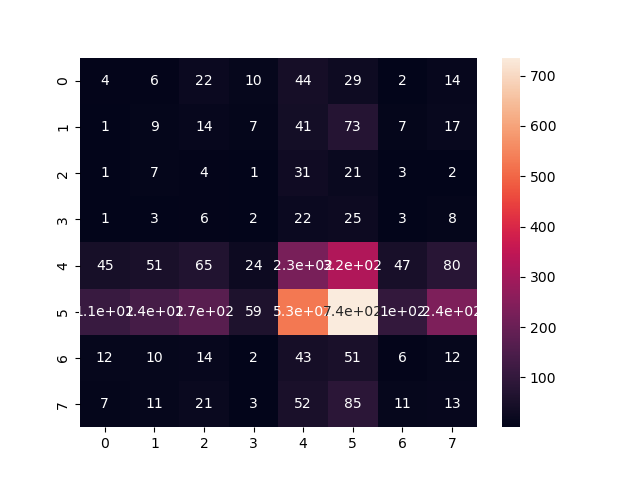
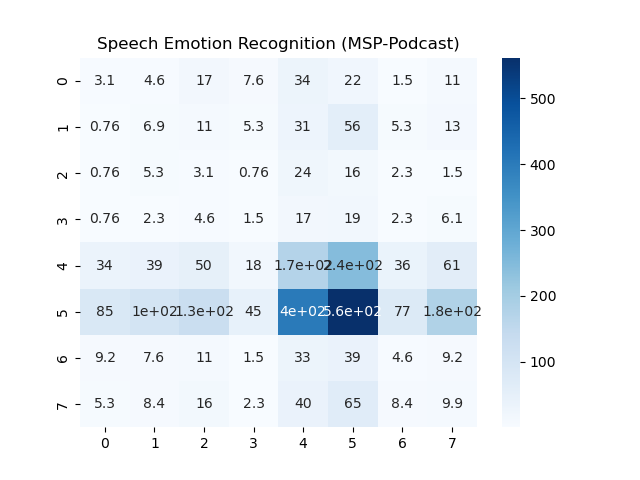
added new emotion analysis for thesis

diff --git a/analysis/va_emotion_analysis.py b/analysis/va_emotion_analysis.py
@@ -1,0 +1,111 @@
+# Implementation of D-prime from the following post
+# https://stats.stackexchange.com/questions/492673/understanding-and-implementing-the-dprime-measure-in-python
+# Goal: Compute d-prime between arousal/valence distributions for genuine and impostor pairs
+
+# USAGE python va_emotion_analysis.py [test1/test2/val] > d_prime_res.txt 
+
+
+import numpy as np
+from sklearn.metrics import roc_auc_score
+from scipy import stats
+from scipy.stats import norm
+import math
+import sys
+import random
+import pandas as pd
+import matplotlib.pyplot as plt
+Z = norm.ppf
+
+
+p = 0.01  # 1% or .01 of the lines works for val and test2.     0.5% or .005 works for test1
+if sys.argv[1] == 'test1':
+    p=.005
+else:
+    p=0.01
+# keep the header, then take only 1% of lines
+# if random from [0,1] interval is greater than 0.01 the row will be skipped
+test_results = pd.read_csv('../ExperimentData/'+sys.argv[1]+'_results.csv',
+                            header=0, 
+                            skiprows=lambda i: i>0 and random.random() > p) # evector
+
+test2_results = pd.read_csv('../baseline_experiment/ExperimentData/pretrained_ecapa_vox/'+sys.argv[1]+'_results.csv',
+                            header=0, 
+                            skiprows=lambda i: i>0 and random.random() > p) # ecapa vox
+
+test3_results = pd.read_csv('../baseline_experiment/finetuned_ecapavox/ExperimentData/125epoch/'+sys.argv[1]+'_results.csv',
+                            header=0, 
+                            skiprows=lambda i: i>0 and random.random() > p) # ecapa vox+msp
+
+test4_results = pd.read_csv('../baseline_experiment/ExperimentData/pretrained_ecapa_msp/'+sys.argv[1]+'_results.csv',
+                            header=0, 
+                            skiprows=lambda i: i>0 and random.random() > p) # ecapa msp
+
+
+emotions = ['A', 'S', 'H', 'U', 'F', 'D', 'C', 'N', 'O', 'X']
+
+emo_map = {'A':'Angry', 'S':'Sad', 'H':'Happy', 'U':'Surprise', 'F':'Fear', 'D':'Disgust', 'C':'Contempt', 'N':'Neutral', 'O':'Other', 'X':'No Agreement'}
+
+scaling = 60
+gen_descale = 0.5
+
+models = ['evec', 'ecapavox', 'ecapavoxmsp', 'ecapamsp']
+
+for model in models:
+    if model == 'ecapavox':
+        test_results = test2_results
+    elif model =='ecapavoxmsp':
+        test_results = test3_results
+    elif model == 'ecapamsp':
+        test_results = test4_results
+            
+    # gen intra
+    for emo in emotions:
+        gen_mean_intra = test_results[test_results['SpkrIDA'] == test_results['SpkrIDB']][test_results['EmoClassA'] == emo][test_results['EmoClassB'] == emo]['MatchScore'].mean() # mean match score
+        gen_mean_intra_val =  (test_results[test_results['SpkrIDA'] == test_results['SpkrIDB']][test_results['EmoClassA'] == emo][test_results['EmoClassB'] == emo]['EmoValA'].mean() + # mean valence
+                                test_results[test_results['SpkrIDA'] == test_results['SpkrIDB']][test_results['EmoClassA'] == emo][test_results['EmoClassB'] == emo]['EmoValB'].mean()) / 2
+        gen_mean_intra_aro =  (test_results[test_results['SpkrIDA'] == test_results['SpkrIDB']][test_results['EmoClassA'] == emo][test_results['EmoClassB'] == emo]['EmoActA'].mean() + # mean activation/arousal
+                                test_results[test_results['SpkrIDA'] == test_results['SpkrIDB']][test_results['EmoClassA'] == emo][test_results['EmoClassB'] == emo]['EmoActB'].mean()) / 2
+        plt.plot(gen_mean_intra_aro, gen_mean_intra_val, ms=gen_mean_intra * scaling * gen_descale, color='b', marker='o', alpha=0.5)
+
+    # gen inter    
+    from itertools import combinations
+    emo_combos = list(combinations(emotions,2))
+    for emoA, emoB in emo_combos:
+        print('EMOTION ', emo_map[emoA], 'vs EMOTION', emo_map[emoB])
+        gen_mean_inter = test_results[test_results['SpkrIDA'] == test_results['SpkrIDB']][test_results['EmoClassA'] == emoA][test_results['EmoClassB'] == emoB]['MatchScore'].mean() # mean match score
+        gen_mean_inter_val =  (test_results[test_results['SpkrIDA'] == test_results['SpkrIDB']][test_results['EmoClassA'] == emoA][test_results['EmoClassB'] == emoB]['EmoValA'].mean() + # mean valence
+                                test_results[test_results['SpkrIDA'] == test_results['SpkrIDB']][test_results['EmoClassA'] == emoA][test_results['EmoClassB'] == emoB]['EmoValB'].mean()) / 2
+        gen_mean_inter_aro =  (test_results[test_results['SpkrIDA'] == test_results['SpkrIDB']][test_results['EmoClassA'] == emoA][test_results['EmoClassB'] == emoB]['EmoActA'].mean() + # mean activation/arousal
+                                test_results[test_results['SpkrIDA'] == test_results['SpkrIDB']][test_results['EmoClassA'] == emoA][test_results['EmoClassB'] == emoB]['EmoActB'].mean()) / 2
+        plt.plot(gen_mean_inter_aro, gen_mean_inter_val, ms=gen_mean_inter * scaling * gen_descale, color='y', marker='o', alpha=0.5)
+
+    # imp intra
+    for emo in emotions:
+        imp_mean_intra = test_results[test_results['SpkrIDA'] != test_results['SpkrIDB']][test_results['EmoClassA'] == emo][test_results['EmoClassB'] == emo]['MatchScore'].mean() # mean match score
+        imp_mean_intra_val =  (test_results[test_results['SpkrIDA'] != test_results['SpkrIDB']][test_results['EmoClassA'] == emo][test_results['EmoClassB'] == emo]['EmoValA'].mean() + # mean valence
+                                test_results[test_results['SpkrIDA'] != test_results['SpkrIDB']][test_results['EmoClassA'] == emo][test_results['EmoClassB'] == emo]['EmoValB'].mean()) / 2
+        imp_mean_intra_aro =  (test_results[test_results['SpkrIDA'] != test_results['SpkrIDB']][test_results['EmoClassA'] == emo][test_results['EmoClassB'] == emo]['EmoActA'].mean() + # mean activation/arousal
+                                test_results[test_results['SpkrIDA'] != test_results['SpkrIDB']][test_results['EmoClassA'] == emo][test_results['EmoClassB'] == emo]['EmoActB'].mean()) / 2
+        plt.plot(imp_mean_intra_aro, imp_mean_intra_val, ms=imp_mean_intra * scaling, color='orange', marker='o', alpha=0.5)
+
+    # imp inter
+    for emoA, emoB in emo_combos:
+        imp_mean_inter = test_results[test_results['SpkrIDA'] != test_results['SpkrIDB']][test_results['EmoClassA'] == emoA][test_results['EmoClassB'] == emoB]['MatchScore'].mean() # mean match score
+        imp_mean_inter_val =  (test_results[test_results['SpkrIDA'] != test_results['SpkrIDB']][test_results['EmoClassA'] == emoA][test_results['EmoClassB'] == emoB]['EmoValA'].mean() + # mean valence
+                                test_results[test_results['SpkrIDA'] != test_results['SpkrIDB']][test_results['EmoClassA'] == emoA][test_results['EmoClassB'] == emoB]['EmoValB'].mean()) / 2
+        imp_mean_inter_aro =  (test_results[test_results['SpkrIDA'] != test_results['SpkrIDB']][test_results['EmoClassA'] == emoA][test_results['EmoClassB'] == emoB]['EmoActA'].mean() + # mean activation/arousal
+                                test_results[test_results['SpkrIDA'] != test_results['SpkrIDB']][test_results['EmoClassA'] == emoA][test_results['EmoClassB'] == emoB]['EmoActB'].mean()) / 2
+        plt.plot(imp_mean_inter_aro, imp_mean_inter_val, ms=imp_mean_inter * scaling, color='r', marker='o', alpha=0.5)
+
+    plt.title('Match Scores of Intra/Inter-Emotion Pairings in Val-Aro Space')
+    plt.xlabel('Arousal')
+    plt.ylabel('Valence')
+    import matplotlib.patches as mpatches
+    gen_intra = mpatches.Patch(color='b', label='Intra-Emotion Genuine Score')
+    imp_intra = mpatches.Patch(color='orange', label='Intra-Emotion Impostor Score')
+    gen_inter = mpatches.Patch(color='y', label='Inter-Emotion Genuine Score')
+    imp_inter = mpatches.Patch(color='r', label='Inter-Emotion Impostor Score')
+
+    plt.legend(handles=[gen_intra,imp_intra, gen_inter, imp_inter], loc='upper left')
+
+    plt.savefig('./'+sys.argv[1]+'_'+model+'_va.png')

diff --git a/analysis/ser_analysis/evec_ser_experiment.py b/analysis/ser_analysis/evec_ser_experiment.py
@@ -160,9 +160,17 @@ else:
     
         print('generating conf matrix')
         conf_mat = confusion_matrix(y_test, model.predict(X_test))
-        print(conf_mat)    
-        plt.figure()
-        sns.heatmap(conf_mat, annot=True)
+        #print(conf_mat)    
+
+        ax = plt.gca()
+        conf_mat = np.array(conf_mat) / sum(conf_mat[0]) * 100 # TODO: This doesn't seem to be working for generating a %
+        ax.set_xlabel('Predicted')
+        ax.set_ylabel('True')
+        ax.set_title('Speech Emotion Recognition (MSP-Podcast)')
+        labels = ['Anger', 'Contempt', 'Disgust', 'Fear', 'Happy', 'Neutral', 'Other', 'Sad', 'Surprise', 'No Agreement']
+        ax.xaxis.set_ticklabels(labels)
+        ax.yaxis.set_ticklabels(labels)
+        sns.heatmap(conf_mat, annot=True, cmap='Blues', ax=ax)
         plt.savefig('./'+test_set+'_ser_confusion_matrix.png')
 
     else:
